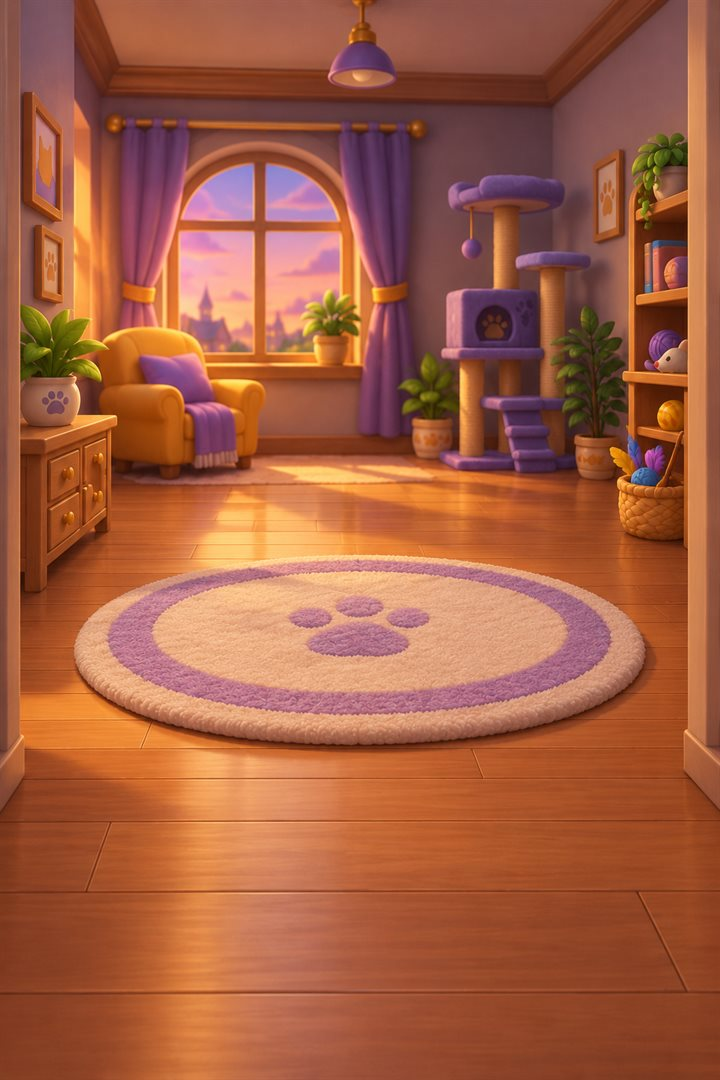
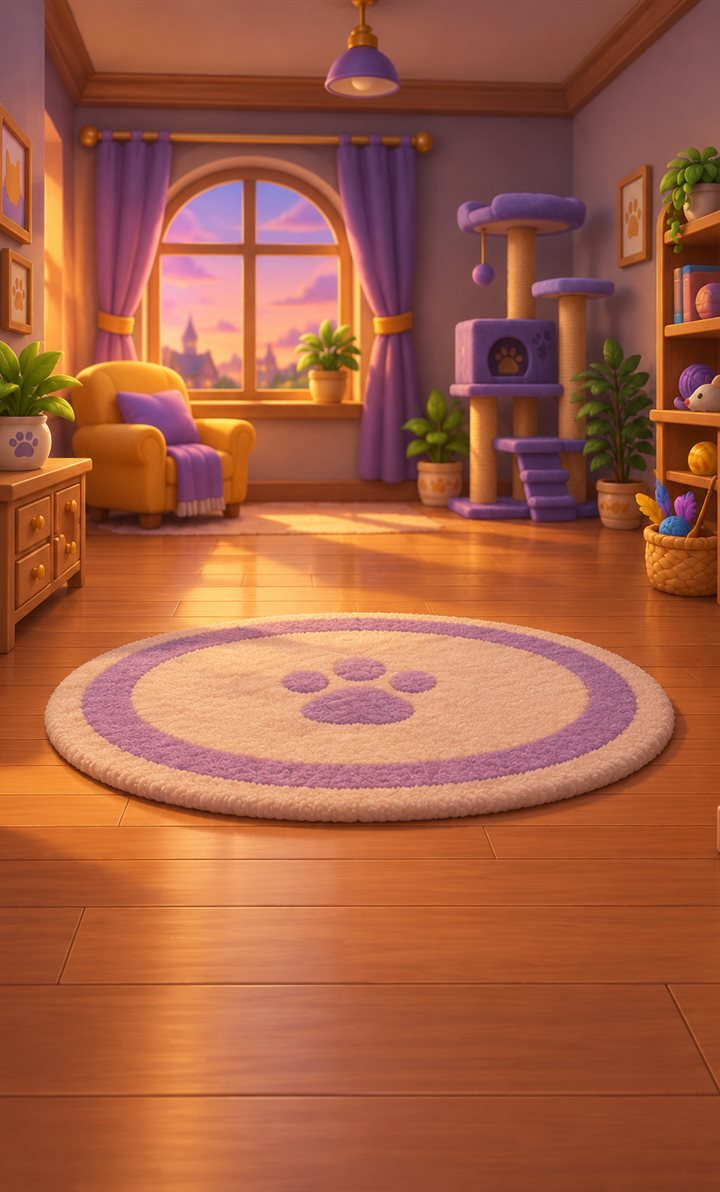
Комната: свои косяки картинок срезаются (fit-room-bg.ps1 -Crop), на стыках общий косяк кодом с параллаксом — промежуточно, дальше переделка в круглый холл с арками
Claude-Session: https://claude.ai/code/session_012vQwH2wYMA6kHCxx5qAVEN

diff --git a/src/scenes/RoomScene.js b/src/scenes/RoomScene.js
@@ -50,6 +50,7 @@ export class RoomScene extends Phaser.Scene {
     this.createHome(2 * W);
     this.createCollection(3 * W);
     this.createProfile(4 * W);
+    this.createDividers();
 
     const U = CONFIG.ui;
     counterPill(this, 30 + U.pillWidth / 2, U.topY, 'coin', coins(), { depth: 25 }).setScrollFactor(0);
@@ -82,7 +83,7 @@ export class RoomScene extends Phaser.Scene {
 
   // ---------- комната ----------
 
-  // Стена и пол на всю ширину; на стыках участков — вертикальные «косяки» (в арте там будут шкаф, штора, растение).
+  // Стена и пол на всю ширину (под картинками участков, пока их нет).
   drawRoom() {
     const total = W * ZONES.length;
     const g = this.add.graphics();
@@ -94,11 +95,33 @@ export class RoomScene extends Phaser.Scene {
         const bg = this.add.image(i * W + W / 2, H / 2, `bg_room_${z.key}`);
         bg.setScale(Math.max(W / bg.width, H / bg.height));
       }
-      if (i) {
-        g.fillStyle(0x9c6a3c, 1).fillRect(i * W - 18, 0, 36, HC.floorY);
-        g.fillStyle(0xffffff, 0.15).fillRect(i * W - 14, 0, 6, HC.floorY);
-      }
     });
+  }
+
+  // Общий дверной косяк на каждом стыке участков — один на две соседние комнаты (свои косяки картинок срезаны).
+  // Он ближе к камере, чем комнаты, поэтому при листании чуть обгоняет фон (параллакс) — так чувствуется глубина.
+  // Положение подобрано так, что посередине между участками косяк ровно на стыке.
+  // Картинка room_divider.png (высокая, на всю высоту экрана) — позже; пока косяк кодом.
+  createDividers() {
+    const D = R.divider;
+    for (let i = 1; i < ZONES.length; i++) {
+      const x = W / 2 + D.parallax * (i * W - W / 2);
+      let obj;
+      if (this.textures.exists('room_divider')) {
+        obj = this.add.image(x, H / 2, 'room_divider');
+        obj.setScale(H / obj.height);
+      } else {
+        const g = this.add.graphics().setPosition(x, 0);
+        const w = D.width;
+        g.fillStyle(0x000000, 0.25).fillRect(-w / 2 + 10, 0, w, H);               // тень на стене справа
+        g.fillStyle(0x7a4b2a, 1).fillRect(-w / 2, 0, w, H);                       // косяк
+        g.fillStyle(0xa8703f, 1).fillRect(-w / 2 + 8, 0, w - 22, H);              // лицевая доска
+        g.fillStyle(0xffffff, 0.18).fillRect(-w / 2 + 12, 0, 8, H);               // блик слева сверху
+        g.fillStyle(0x5c361d, 1).fillRect(w / 2 - 14, 0, 14, H);                  // торец в тени
+        obj = g;
+      }
+      obj.setScrollFactor(D.parallax, 1).setDepth(5);
+    }
   }
 
   createHome(x0) {

diff --git a/src/config.js b/src/config.js
@@ -296,7 +296,7 @@ export const CONFIG = {
   // Главный экран — комната кота (открывается после загрузки с map.homeFromLevel). Пока без арта.
   home: {
     titleY: 190,
-    floorY: 685,         // где стоят лапы кота (на ковре в bg_room_home); ниже — пол
+    floorY: 750,         // где стоят лапы кота (на ковре в bg_room_home); ниже — пол
     catScale: 2.6,
     catColor: 2,
     playY: 1020,
@@ -310,12 +310,13 @@ export const CONFIG = {
     flick: 9,            // px за кадр: такой быстрый взмах листает, даже если протащили меньше
     // карта на стене: окошко шириной с экран и высотой posterViewH (в координатах карты), уменьшенное в posterScale;
     // центр — на пустой стене bg_room_map
-    posterScale: 0.56,
-    posterViewH: 460,
+    posterScale: 0.6,
+    posterViewH: 480,
     posterX: 362,
-    posterY: 243,
+    posterY: 268,
     frameWidth: 18,      // рамка вокруг карты на стене
     zoomDuration: 420,   // мс: карта разворачивается на весь экран и обратно
+    divider: { width: 100, parallax: 1.08 }, // общий косяк на стыках: ширина и насколько быстрее фона едет
   },
 
   // Переход «поворот» между комнатой и кухней (уровнем): резкий проезд вбок, размытие в движении, звук ветра
